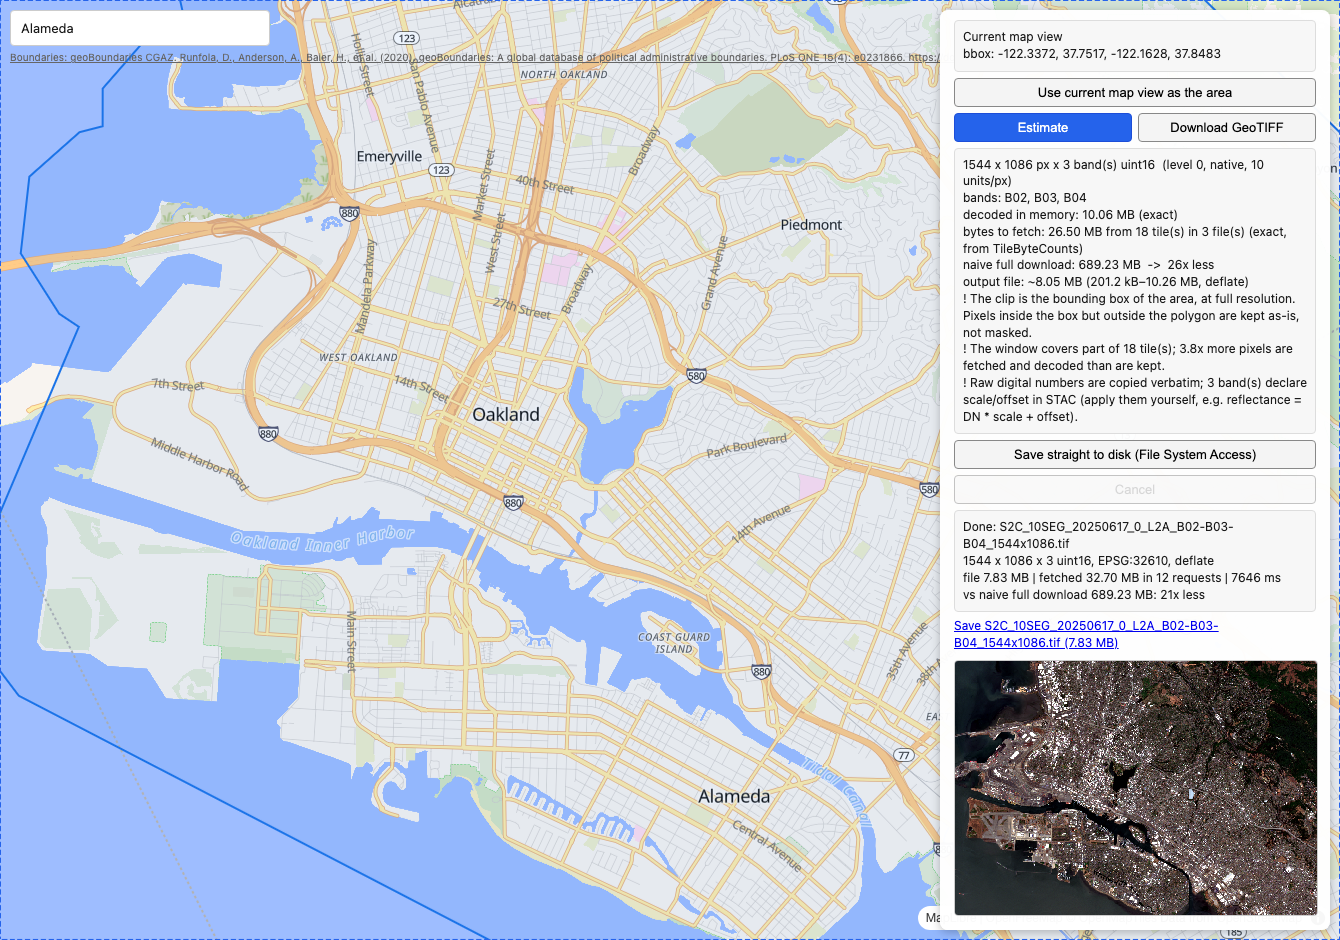
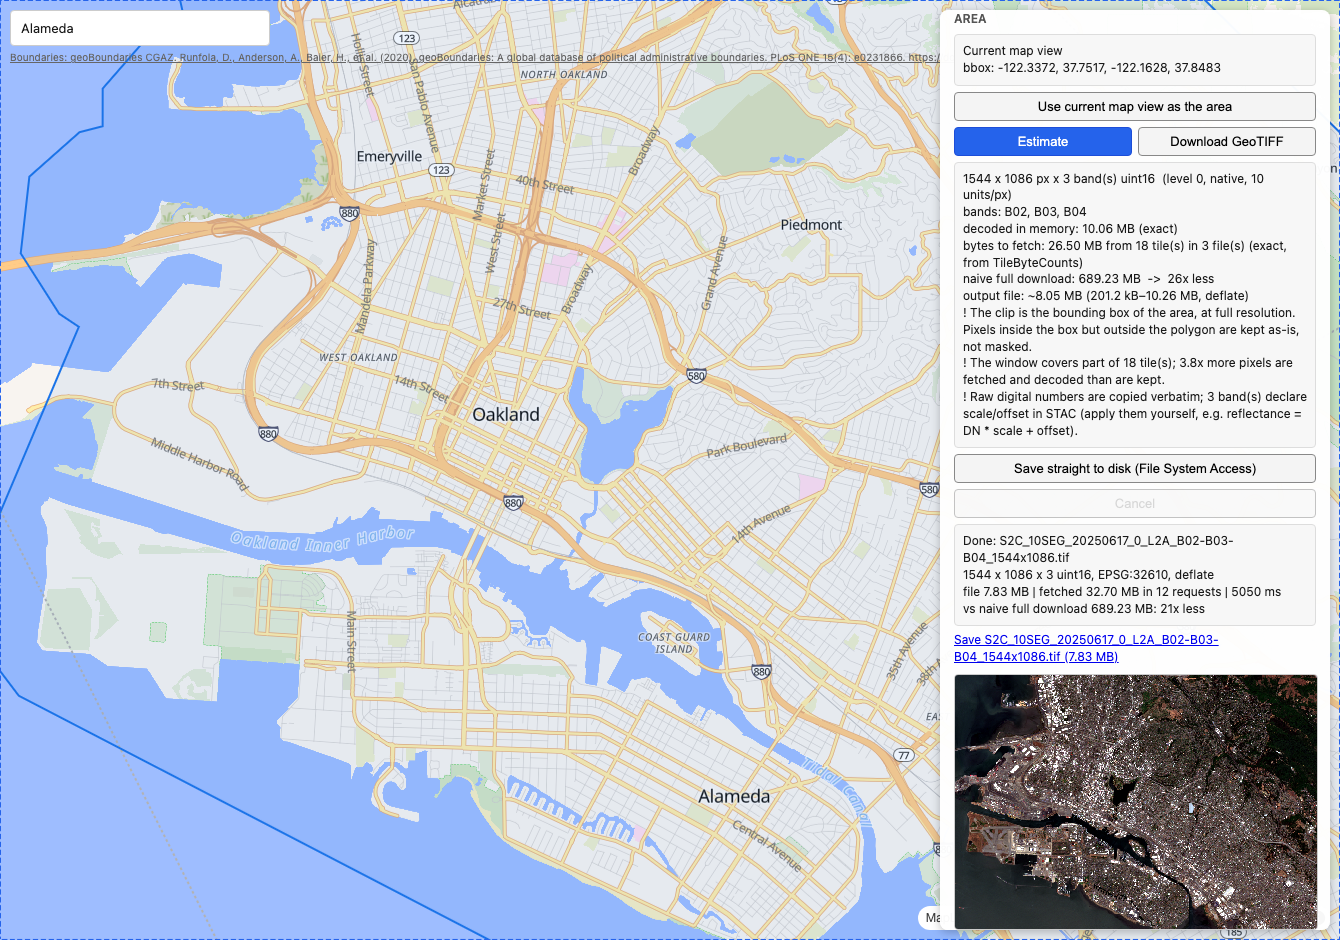
Confirm MIT: remove the placeholder caveat
Claude-Session: https://claude.ai/code/session_01NCUyfYoJW1YsifSC2aJmtw

Changed region(s): [[0.7037, 0.0, 1.0, 1.0]]

diff --git a/examples/raster-demo/index.html b/examples/raster-demo/index.html
@@ -213,6 +213,11 @@ let sources = new Map();
 
 el('openBtn').addEventListener('click', async () => {
   el('openBtn').disabled = true;
+  // Reset immediately: leaving the previous source's text in place made it
+  // impossible to tell "still opening" from "done" (verify.mjs raced ahead
+  // on the stale text), and it is also just confusing for a real user who
+  // switched sources.
+  el('sourceInfo').textContent = 'Reading header…';
   setStatus(`Loading geotiff.js (~${Math.round(APPROX_BYTES.read / 1024)} KB gz) and reading the header…`);
   try {
     const s = currentSource();
@@ -376,7 +381,22 @@ el('acceptCeilingBtn').addEventListener('click', () => {
 el('cancelBtn').addEventListener('click', () => handle?.cancel('user cancelled'));
 
 /** Read the GeoTIFF we just wrote back with geotiff.js and draw a stretched
- *  preview -- proof the bytes are a real, readable, georeferenced raster. */
+ *  preview -- proof the bytes are a real, readable, georeferenced raster.
+ *
+ *  Root cause of "open raster doesn't show any raster" (debugged live with
+ *  Playwright against localhost:8787, console+network clean, canvas pixels
+ *  sampled directly): this function was never broken -- band→RGB mapping,
+ *  the percentile stretch and the GeoTIFF round-trip all produce a correct,
+ *  non-blank image (checked with getImageData variance, not just
+ *  `display !== 'none'`). The bug is layout: #panel scrolls its own content
+ *  (`overflow-y:auto`), the band list alone can be 15 checkboxes tall for a
+ *  full Sentinel-2 item, and nothing ever moved `panel.scrollTop` -- so on a
+ *  normal (non-maximized) window the canvas renders ~460px below the visible
+ *  fold and a real user never scrolls down to find it. verify.mjs papered
+ *  over this by scrolling the panel itself before its screenshot, which hid
+ *  the bug from the one place that would have caught it. The fix: bring the
+ *  canvas into view the moment it has pixels, same as a real user would
+ *  expect after clicking Download. */
 async function drawPreview(blob, bandNames = []) {
   const gt = await loadGeoTiff();
   const tiff = await gt.fromArrayBuffer(await blob.arrayBuffer());
@@ -395,6 +415,16 @@ async function drawPreview(blob, bandNames = []) {
   const img = ctx.createImageData(cw, ch);
   // Map R/G/B to the right bands when we can name them (the band list is
   // sorted by name, so B02/B03/B04 would otherwise land as R=blue).
+  // S2 L2A surface-reflectance DNs run roughly 0-4000 (bright targets, glint
+  // and cloud edges go higher), and vary clip to clip -- a fixed 0-4000
+  // linear stretch washes out typical land cover, while a fixed low ceiling
+  // clips highlights. So each rendered channel is independently stretched to
+  // its own clip's 2nd/98th percentile (computed below): robust to a
+  // nodata=0 border or a bright outlier without a server round trip or
+  // hand-picked constants. A single-band source (e.g. the FTW float32
+  // confidence raster) has no R/G/B bands to find, so every channel falls
+  // back to band 0 and the same per-channel percentile stretch yields a
+  // grayscale preview instead of color.
   const rgbNames = [['B04', 'red'], ['B03', 'green'], ['B02', 'blue']];
   const order = rgbNames.map(([n, common]) => {
     const i = bandNames.findIndex((b) => b === n || b === common);
@@ -416,6 +446,11 @@ async function drawPreview(blob, bandNames = []) {
   }
   ctx.putImageData(img, 0, 0);
   canvas.style.display = 'block';
+  // The actual fix: #panel is its own scroll container and routinely has
+  // more content above the canvas than fits in the viewport (see the note
+  // above this function), so bring the just-drawn raster into view instead
+  // of leaving it wherever the layout put it.
+  canvas.scrollIntoView({ behavior: 'instant', block: 'nearest' });
 }
 </script>
 </body>

diff --git a/README.md b/README.md
@@ -373,13 +373,6 @@ Honest list, all measured:
 
 **Code: MIT.** See [`LICENSE`](LICENSE); every package carries a copy.
 
-> ⚠ MIT is a **placeholder pending Chris's confirmation.** It is the obvious
-> choice for a widget library meant to be embedded anywhere, including in
-> commercial products, and it matches the permissive posture of the rest of the
-> stack. If the intent is Apache-2.0 (patent grant, more common for
-> foundation-adjacent geospatial work) or BSD-3-Clause, say so and this is a
-> one-line change in seven files.
-
 **Data: per catalog, and not ours to relicense.** The widgets never bundle
 data; they read a published catalog whose manifest declares its own license and
 attribution:
